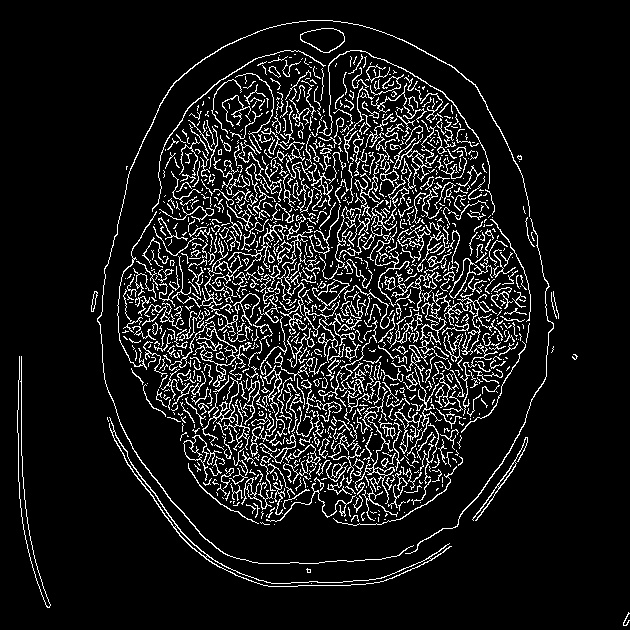
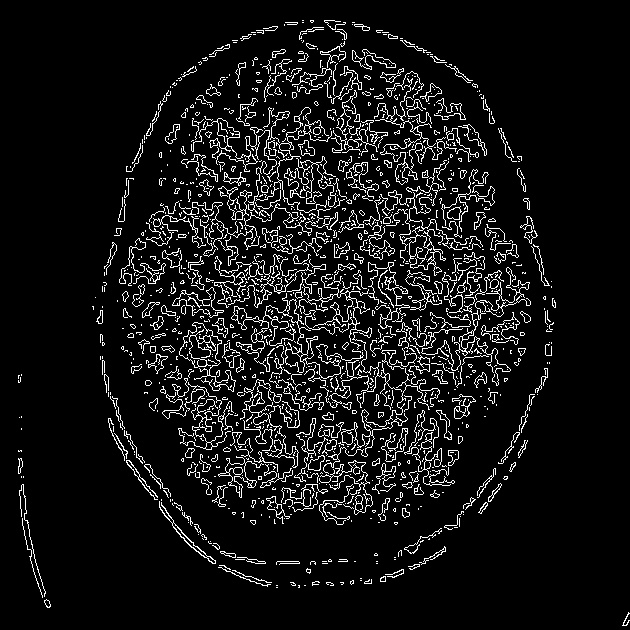
Brain tumors

diff --git a/Brain-tumors.py b/Brain-tumors.py
@@ -3,6 +3,7 @@ import numpy as np
 from PIL import Image, ImageEnhance
 import os
 import matplotlib.pyplot as plt
+import pywt  # For Wavelet Transform
 
 # Function to display images during processing
 def display_images(title, images, cols=2):
@@ -11,7 +12,10 @@ def display_images(title, images, cols=2):
     axes = axes.flatten()
     
     for i, (name, image) in enumerate(images.items()):
-        axes[i].imshow(image, cmap='gray')
+        if len(image.shape) == 2:  # Grayscale
+            axes[i].imshow(image, cmap='gray')
+        else:  # RGB
+            axes[i].imshow(cv2.cvtColor(image, cv2.COLOR_BGR2RGB))
         axes[i].set_title(name)
         axes[i].axis('off')
     
@@ -34,40 +38,98 @@ def save_images(image_dict, base_folder="Processed_Images"):
 
         file_name = f"{name}.jpg"
         file_path = os.path.join(folder_path, file_name)
-        cv2.imwrite(file_path, img, [cv2.IMWRITE_JPEG_QUALITY, 95])  # Save with high quality
+        
+        # Save image with high quality
+        if len(img.shape) == 2:  # Grayscale
+            cv2.imwrite(file_path, img, [cv2.IMWRITE_JPEG_QUALITY, 95])
+        else:  # RGB
+            cv2.imwrite(file_path, cv2.cvtColor(img, cv2.COLOR_RGB2BGR), [cv2.IMWRITE_JPEG_QUALITY, 95])
+
         print(f"Saved {file_name} in {folder_path}")
 
-# Main Processing Function
-def process_image(image_path):
-    # Read the original image
-    original_image = cv2.imread(image_path, cv2.IMREAD_GRAYSCALE)
+# Function to apply Wavelet Transform for noise reduction
+def wavelet_denoising(image):
+    # Ensure the image is grayscale
+    if len(image.shape) > 2:
+        image = cv2.cvtColor(image, cv2.COLOR_BGR2GRAY)
+    
+    # Normalize the image to avoid float64 issues
+    image = cv2.normalize(image, None, 0, 255, cv2.NORM_MINMAX, dtype=cv2.CV_8U)
+    
+    # Apply Wavelet Transform
+    coeffs = pywt.wavedec2(image, 'bior1.3', level=1)
+    
+    # Separate approximation and detail coefficients
+    cA, (cH, cV, cD) = coeffs
+    
+    # Estimate noise level using MAD
+    sigma = mad(cD)  # Use the diagonal detail coefficients
+    threshold = sigma * np.sqrt(2 * np.log(image.size))  # Universal threshold
+    
+    # Denoise using soft thresholding
+    cH = pywt.threshold(cH, threshold, mode='soft')
+    cV = pywt.threshold(cV, threshold, mode='soft')
+    cD = pywt.threshold(cD, threshold, mode='soft')
+    
+    # Reconstruct the coefficients tuple
+    denoised_coeffs = (cA, (cH, cV, cD))
+    
+    # Reconstruct the image
+    denoised_image = pywt.waverec2(denoised_coeffs, 'bior1.3')
+    
+    # Normalize the result to uint8
+    denoised_image = cv2.normalize(denoised_image, None, 0, 255, cv2.NORM_MINMAX, dtype=cv2.CV_8U)
+    return denoised_image
 
+# Median Absolute Deviation function
+def mad(data):
+    if len(data) == 0:
+        return 0
+    median = np.median(data)
+    return np.median(np.abs(data - median))
+
+# Main Processing Function
+def process_image(image_path, resize_factor=2):
+    # Read the original image
+    original_image = cv2.imread(image_path)
     if original_image is None:
         print("Image not found. Please check the path.")
         return
 
+    # Convert to grayscale if needed
+    gray_image = cv2.cvtColor(original_image, cv2.COLOR_BGR2GRAY)
+    
     processed_images = {'Original': original_image}
 
     # 1. Contrast Enhancement using CLAHE
     clahe = cv2.createCLAHE(clipLimit=2.0, tileGridSize=(8, 8))
-    enhanced_image = clahe.apply(original_image)
-    processed_images['Contrast Enhanced'] = enhanced_image
+    enhanced_gray = clahe.apply(gray_image)
+    processed_images['Contrast_Enhanced'] = cv2.cvtColor(enhanced_gray, cv2.COLOR_GRAY2BGR)
 
     # 2. Noise Reduction using Gaussian Blur
-    denoised_image = cv2.GaussianBlur(enhanced_image, (5, 5), 0)
-    processed_images['Denoised'] = denoised_image
+    denoised_gray = cv2.GaussianBlur(enhanced_gray, (5, 5), 0)
+    processed_images['Denoised'] = cv2.cvtColor(denoised_gray, cv2.COLOR_GRAY2BGR)
 
-    # 3. Edge Detection using Canny
-    edges = cv2.Canny(denoised_image, threshold1=30, threshold2=70)
+    # 3. Advanced Noise Reduction using Wavelet Transform
+    try:
+        wavelet_denoised = wavelet_denoising(denoised_gray)
+        processed_images['Wavelet_Denoised'] = cv2.cvtColor(wavelet_denoised, cv2.COLOR_GRAY2BGR)
+    except Exception as e:
+        print(f"Error during Wavelet Denoising: {e}")
+        processed_images['Wavelet_Denoised'] = cv2.cvtColor(denoised_gray, cv2.COLOR_GRAY2BGR)
+
+    # 4. Edge Detection using Canny
+    # Normalize the image before applying Canny
+    edges = cv2.Canny(wavelet_denoised, threshold1=30, threshold2=70)
     processed_images['Edges'] = edges
 
-    # 4. Increase Resolution using Bicubic Interpolation
-    resized_image = cv2.resize(denoised_image, (original_image.shape[1]*2, original_image.shape[0]*2), interpolation=cv2.INTER_CUBIC)
-    processed_images['Resized'] = resized_image
+    # 5. Increase Resolution using Bicubic Interpolation
+    resized_image = cv2.resize(wavelet_denoised, (wavelet_denoised.shape[1]*resize_factor, wavelet_denoised.shape[0]*resize_factor), interpolation=cv2.INTER_CUBIC)
+    processed_images['Resized'] = cv2.cvtColor(resized_image, cv2.COLOR_GRAY2BGR)
 
-    # 5. Convert to RGB (Optional - for visualization purposes)
-    rgb_image = cv2.cvtColor(denoised_image, cv2.COLOR_GRAY2RGB)
-    processed_images['RGB'] = rgb_image
+    # 6. Create Composite Image (Original + Enhanced)
+    composite = np.hstack((cv2.cvtColor(gray_image, cv2.COLOR_GRAY2BGR), processed_images['Contrast_Enhanced']))
+    processed_images['Composite'] = composite
 
     # Display the results
     display_images("Processing Steps", processed_images)
@@ -80,5 +142,5 @@ def process_image(image_path):
 # Run the script
 if __name__ == "__main__":
     # Specify the path to your image
-    image_path = 'images\img2.jpg'  # Replace with your image path
-    process_image(image_path)
+    image_path = 'images/img2.jpg'  # Replace with your image path
+    process_image(image_path, resize_factor=2)

diff --git a/Readme.md b/Readme.md
@@ -8,20 +8,16 @@ This project applies multiple image processing techniques using OpenCV and Pytho
 ## Features
 - **Contrast Enhancement**: Uses CLAHE (Contrast Limited Adaptive Histogram Equalization) for improved visibility.
 - **Noise Reduction**: Applies Gaussian Blur to smoothen the image.
+- **Advanced Noise Reduction**: Uses Wavelet Transform for enhanced denoising.
 - **Edge Detection**: Utilizes the Canny edge detection algorithm.
 - **Resolution Enhancement**: Scales up images with bicubic interpolation.
 - **Automatic Image Saving**: Processed images are stored in structured directories.
 
 ## Installation
-1. Clone the repository:
-   ```sh
-   git clone https://github.com/yourusername/image-processing-opencv.git
-   cd image-processing-opencv
-   ```
-2. Install dependencies:
-   ```sh
-   pip install -r requirements.txt
-   ```
+Ensure you have Python installed along with the required dependencies:
+```sh
+pip install opencv-python numpy pillow matplotlib pywavelets
+```
 
 ## Usage
 Run the script with an image path:
@@ -34,11 +30,11 @@ By default, it processes `img2.jpg`. Modify the script to specify another image.
 ### Original vs. Processed Images
 | Original | Contrast Enhanced | Noise Reduced |
 |----------|------------------|--------------|
-| ![Original](Processed_Images/Original/original.jpg) | ![Enhanced](Processed_Images/Contrast_Enhanced/Contrast_Enhanced.jpg) | ![Denoised](Processed_Images/Denoised/denoised.jpg) |
+| ![Original](Processed_Images/Original/Original.jpg) | ![Enhanced](Processed_Images/Contrast_Enhanced/Contrast_Enhanced.jpg) | ![Denoised](Processed_Images/Denoised/Denoised.jpg) |
 
-| Edges Detected | Resized Image | RGB Conversion |
-|---------------|--------------|---------------|
-| ![Edges](Processed_Images/Edges/edges.jpg) | ![Resized](Processed_Images/Resized/resized.jpg) | ![RGB](Processed_Images/RGB/rgb.jpg) |
+| Wavelet Denoised | Edges Detected | Resized Image |
+|-----------------|---------------|--------------|
+| ![Wavelet Denoised](Processed_Images/Wavelet_Denoised/Wavelet_Denoised.jpg) | ![Edges](Processed_Images/Edges/Edges.jpg) | ![Resized](Processed_Images/Resized/Resized.jpg) |
 
 ## Folder Structure
 ```
@@ -49,13 +45,12 @@ image-processing-opencv/
 │── images/
 │── Processed_Images/
 │   ├── Original/
-│   ├── Contrast Enhanced/
+│   ├── Contrast_Enhanced/
 │   ├── Denoised/
+│   ├── Wavelet_Denoised/
 │   ├── Edges/
 │   ├── Resized/
-│   ├── RGB/
 ```
-
 ## Dependencies
 - OpenCV
 - NumPy
